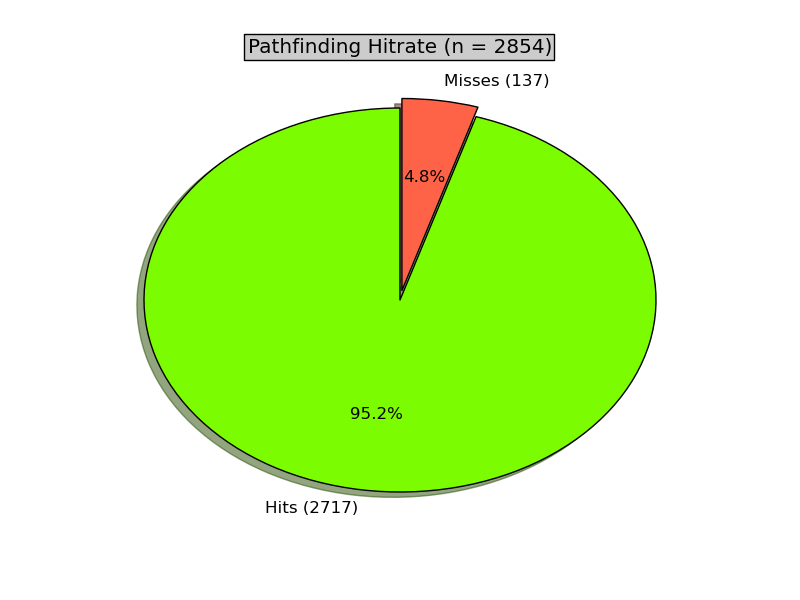
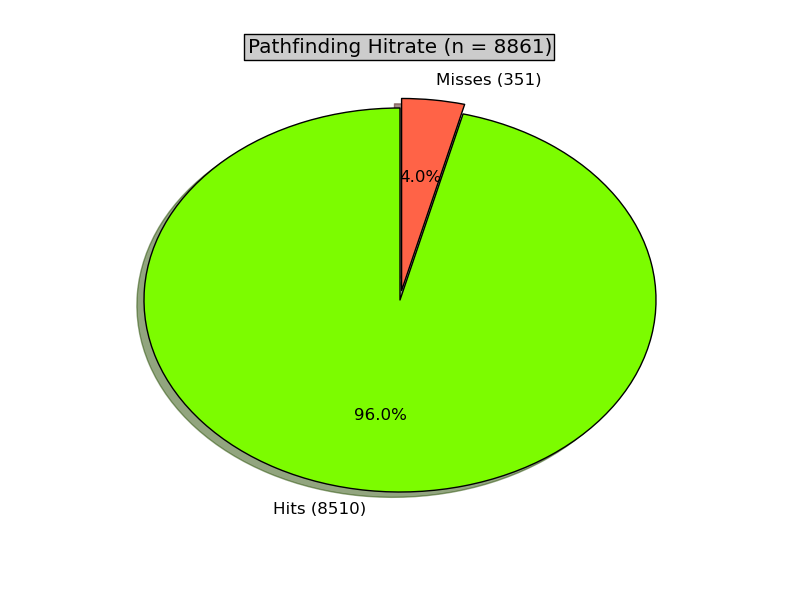
added plots and tweaked graphs

diff --git a/EiCGraphAlgo/sindice/randompath.py b/EiCGraphAlgo/sindice/randompath.py
@@ -22,74 +22,74 @@ sources = [
             #'http://dbpedia.org/resource/Mariah_Carey',
             #'http://dbpedia.org/resource/Celine_Dion',
             #'http://dbpedia.org/resource/Jimi_Hendrix',
-            'http://dbpedia.org/resource/George_Harrison',
-            'http://dbpedia.org/resource/Miles_Davis',
-            'http://dbpedia.org/resource/Kylie_Minogue',
-            'http://dbpedia.org/resource/Felix_Mendelssohn',
-            'http://dbpedia.org/resource/Snoop_Dogg',
-            'http://dbpedia.org/resource/Neil_Young',
-            'http://dbpedia.org/resource/Serge_Gainsbourg',
-            'http://dbpedia.org/resource/Antonio_Vivaldi',
-            'http://dbpedia.org/resource/Avril_Lavigne',
-            'http://dbpedia.org/resource/Dolly_Parton',
-            'http://dbpedia.org/resource/Giuseppe_Verdi',
-            'http://dbpedia.org/resource/Joan_Baez',
-            'http://dbpedia.org/resource/Cyndi_Lauper',
-            'http://dbpedia.org/resource/Jerry_Goldsmith',
-            'http://dbpedia.org/resource/Jean_Michel_Jarre',
-            'http://dbpedia.org/resource/Barbra_Streisand',
-            'http://dbpedia.org/resource/Janet_Jackson',
-            'http://dbpedia.org/resource/Bruce_Springsteen',
-            'http://dbpedia.org/resource/Ringo_Starr',
-            'http://dbpedia.org/resource/Tom_Waits',
-            'http://dbpedia.org/resource/Rihanna',
-            'http://dbpedia.org/resource/James_Brown',
-            'http://dbpedia.org/resource/Jimmy_Page',
-            'http://dbpedia.org/resource/Igor_Stravinsky',
-            'http://dbpedia.org/resource/Kanye_West',
-            'http://dbpedia.org/resource/Stevie_Wonder',
-            'http://dbpedia.org/resource/Mike_Oldfield',
-            'http://dbpedia.org/resource/Kurt_Cobain',
-            'http://dbpedia.org/resource/Henry_Mancini',
-            'http://dbpedia.org/resource/Alice_Cooper',
-            'http://dbpedia.org/resource/Tupac_Shakur',
-            'http://dbpedia.org/resource/Phil_Collins',
-            'http://dbpedia.org/resource/Jennifer_Lopez',
-            'http://dbpedia.org/resource/Bo_Diddley',
-            'http://dbpedia.org/resource/Roger_Waters',
-            'http://dbpedia.org/resource/Ozzy_Osbourne',
-            'http://dbpedia.org/resource/Hans_Zimmer',
-            'http://dbpedia.org/resource/Pete_Townshend',
-            'http://dbpedia.org/resource/Karlheinz_Stockhausen',
-            'http://dbpedia.org/resource/Alicia_Keys',
-            'http://dbpedia.org/resource/Justin_Timberlake',
-            'http://dbpedia.org/resource/Tina_Turner',
-            'http://dbpedia.org/resource/Louis_Armstrong',
-            'http://dbpedia.org/resource/Brian_May',
-            'http://dbpedia.org/resource/Georges_Brassens',
-            'http://dbpedia.org/resource/Nelly_Furtado',
-            'http://dbpedia.org/resource/Van_Morrison',
-            'http://dbpedia.org/resource/Yoko_Ono',
-            'http://dbpedia.org/resource/Amy_Winehouse',
-            'http://dbpedia.org/resource/Solomon_Burke',
-            'http://dbpedia.org/resource/Bing_Crosby',
-            'http://dbpedia.org/resource/Whitney_Houston',
-            'http://dbpedia.org/resource/Claude_Debussy',
-            'http://dbpedia.org/resource/Philip_Glass',
-            'http://dbpedia.org/resource/Alanis_Morissette',
-            'http://dbpedia.org/resource/George_Michael',
-            'http://dbpedia.org/resource/Patti_Smith',
-            'http://dbpedia.org/resource/Iggy_Pop',
-            'http://dbpedia.org/resource/Robbie_Williams',
-            'http://dbpedia.org/resource/Gwen_Stefani',
-            'http://dbpedia.org/resource/Charles_Aznavour',
-            'http://dbpedia.org/resource/David_Gilmour',
-            'http://dbpedia.org/resource/Captain_Beefheart',
-            'http://dbpedia.org/resource/Tarja_Turunen',
-            'http://dbpedia.org/resource/Ayumi_Hamasaki',
-            'http://dbpedia.org/resource/Bryan_Adams',
-            'http://dbpedia.org/resource/Arnold_Schoenberg',
-            'http://dbpedia.org/resource/Carl_Stalling',
+            #'http://dbpedia.org/resource/George_Harrison',
+            #'http://dbpedia.org/resource/Miles_Davis',
+            #'http://dbpedia.org/resource/Kylie_Minogue',
+            #'http://dbpedia.org/resource/Felix_Mendelssohn',
+            #'http://dbpedia.org/resource/Snoop_Dogg',
+            #'http://dbpedia.org/resource/Neil_Young',
+            #'http://dbpedia.org/resource/Serge_Gainsbourg',
+            #'http://dbpedia.org/resource/Antonio_Vivaldi',
+            #'http://dbpedia.org/resource/Avril_Lavigne',
+            #'http://dbpedia.org/resource/Dolly_Parton',
+            #'http://dbpedia.org/resource/Giuseppe_Verdi',
+            #'http://dbpedia.org/resource/Joan_Baez',
+            #'http://dbpedia.org/resource/Cyndi_Lauper',
+            #'http://dbpedia.org/resource/Jerry_Goldsmith',
+            #'http://dbpedia.org/resource/Jean_Michel_Jarre',
+            #'http://dbpedia.org/resource/Barbra_Streisand',
+            #'http://dbpedia.org/resource/Janet_Jackson',
+            #'http://dbpedia.org/resource/Bruce_Springsteen',
+            #'http://dbpedia.org/resource/Ringo_Starr',
+            #'http://dbpedia.org/resource/Tom_Waits',
+            #'http://dbpedia.org/resource/Rihanna',
+            #'http://dbpedia.org/resource/James_Brown',
+            #'http://dbpedia.org/resource/Jimmy_Page',
+            #'http://dbpedia.org/resource/Igor_Stravinsky',
+            #'http://dbpedia.org/resource/Kanye_West',
+            #'http://dbpedia.org/resource/Stevie_Wonder',
+            #'http://dbpedia.org/resource/Mike_Oldfield',
+            #'http://dbpedia.org/resource/Kurt_Cobain',
+            #'http://dbpedia.org/resource/Henry_Mancini',
+            #'http://dbpedia.org/resource/Alice_Cooper',
+            #'http://dbpedia.org/resource/Tupac_Shakur',
+            #'http://dbpedia.org/resource/Phil_Collins',
+            #'http://dbpedia.org/resource/Jennifer_Lopez',
+            #'http://dbpedia.org/resource/Bo_Diddley',
+            #'http://dbpedia.org/resource/Roger_Waters',
+            #'http://dbpedia.org/resource/Ozzy_Osbourne',
+            #'http://dbpedia.org/resource/Hans_Zimmer',
+            #'http://dbpedia.org/resource/Pete_Townshend',
+            #'http://dbpedia.org/resource/Karlheinz_Stockhausen',
+            #'http://dbpedia.org/resource/Alicia_Keys',
+            #'http://dbpedia.org/resource/Justin_Timberlake',
+            #'http://dbpedia.org/resource/Tina_Turner',
+            #'http://dbpedia.org/resource/Louis_Armstrong',
+            #'http://dbpedia.org/resource/Brian_May',
+            #'http://dbpedia.org/resource/Georges_Brassens',
+            #'http://dbpedia.org/resource/Nelly_Furtado',
+            #'http://dbpedia.org/resource/Van_Morrison',
+            #'http://dbpedia.org/resource/Yoko_Ono',
+            #'http://dbpedia.org/resource/Amy_Winehouse',
+            #'http://dbpedia.org/resource/Solomon_Burke',
+            #'http://dbpedia.org/resource/Bing_Crosby',
+            #'http://dbpedia.org/resource/Whitney_Houston',
+            #'http://dbpedia.org/resource/Claude_Debussy',
+            #'http://dbpedia.org/resource/Philip_Glass',
+            #'http://dbpedia.org/resource/Alanis_Morissette',
+            #'http://dbpedia.org/resource/George_Michael',
+            #'http://dbpedia.org/resource/Patti_Smith',
+            #'http://dbpedia.org/resource/Iggy_Pop',
+            #'http://dbpedia.org/resource/Robbie_Williams',
+            #'http://dbpedia.org/resource/Gwen_Stefani',
+            #'http://dbpedia.org/resource/Charles_Aznavour',
+            #'http://dbpedia.org/resource/David_Gilmour',
+            #'http://dbpedia.org/resource/Captain_Beefheart',
+            #'http://dbpedia.org/resource/Tarja_Turunen',
+            #'http://dbpedia.org/resource/Ayumi_Hamasaki',
+            #'http://dbpedia.org/resource/Bryan_Adams',
+            #'http://dbpedia.org/resource/Arnold_Schoenberg',
+            #'http://dbpedia.org/resource/Carl_Stalling',
             'http://dbpedia.org/resource/Renaud',
             'http://dbpedia.org/resource/Dean_Martin',
             'http://dbpedia.org/resource/Shania_Twain',
@@ -97,7 +97,17 @@ sources = [
             'http://dbpedia.org/resource/Marvin_Gaye',
             'http://dbpedia.org/resource/Ashley_Tisdale',
             'http://dbpedia.org/resource/Duke_Ellington',
-            'http://dbpedia.org/resource/Diana_Ross'
+            'http://dbpedia.org/resource/Diana_Ross',
+            'http://dbpedia.org/resource/Volvo',
+            'http://dbpedia.org/resource/BMW',
+            'http://dbpedia.org/resource/Aston_Martin',
+            'http://dbpedia.org/resource/Mickey_Mouse',
+            'http://dbpedia.org/resource/Mercedes-Benz',
+            'http://dbpedia.org/resource/Euro',
+            'http://dbpedia.org/resource/The_Times',
+            'http://dbpedia.org/resource/Digital_Enterprise_Research_Institute',
+            'http://dbpedia.org/resource/Ferrari',
+            'http://dbpedia.org/resource/Valve',
         ]
 
 destinations = [

diff --git a/EiCGraphAlgo/sindice/plot_time_vs_pathlengths.py b/EiCGraphAlgo/sindice/plot_time_vs_pathlengths.py
@@ -36,10 +36,11 @@ def plot(cpf = cached_pathfinder.CachedPathFinder()):
     x = list()
     y = list()
     topop = set()
-    
-    for length in cpf.path_execution_times:
-        if len(cpf.path_execution_times[length]) > 1:
-            for execution_time in cpf.path_execution_times[length]:
+    et = cpf.path_execution_times
+    et.pop(len(cpf.path_execution_times))
+    for length in et:
+        if len(et[length]) > 1:
+            for execution_time in et[length]:
                 x.append(length)
                 y.append(execution_time)
         else:
@@ -50,7 +51,7 @@ def plot(cpf = cached_pathfinder.CachedPathFinder()):
         
     #print (x)
     #print (y)
-    
+
     fig = Figure(figsize=(7,6))
     
     # Create a canvas and add the figure to it.
@@ -83,15 +84,15 @@ def plot(cpf = cached_pathfinder.CachedPathFinder()):
     datas = list()
     w = 0.5
     
-    for length in cpf.path_execution_times:
-        sorted = np.sort(cpf.path_execution_times[length])
+    for length in et:
+        sorted = np.sort(et[length])
         spread = sorted
         center = ones(len(sorted)) * np.median(sorted)
         data = concatenate((spread, center), 0)
         data.shape = (-1, 1)
         datas.append(data)
     
-    violin_plot(ax,list(cpf.path_execution_times.values()),range(1,len(cpf.path_execution_times)+1),bp=True)
+    violin_plot(ax,list(et.values()),range(1,len(et)+1),bp=True)
         
     # Making a 2-D array only works if all the columns are the
     # same length.  If they are not, then use a list instead.

diff --git a/EiCGraphAlgo/sindice/plot_distribution_pathlength.py b/EiCGraphAlgo/sindice/plot_distribution_pathlength.py
@@ -13,6 +13,7 @@ def plot(cpf = cached_pathfinder.CachedPathFinder()):
     #print (total_paths)
     #print (cpf.path_lengths)
     flattened_lengths = list()
+    cpf.path_lengths.pop(len(cpf.path_lengths))
     for x in cpf.path_lengths:
         i = 0
         for i in range(cpf.path_lengths[x]):
@@ -31,17 +32,20 @@ def plot(cpf = cached_pathfinder.CachedPathFinder()):
         
     #variation = spst.tstd(flattened_lengths)
     #median = spst.tmean(flattened_lengths)
+    mean = np.average(np.array(flattened_lengths))
     #print (x_n)
     #print (y_n)
     #print (median)
     #print (variation)
+    print ("mean = %s " % mean )
     l = np.linspace(0,np.max(np.array(x)),np.max(np.array(y)))
     # Set the title.
     plt.title('Distribution of path length (n = %s)' % total_paths,fontsize=12)
     
     # Set the X Axis label.
     plt.xlabel('(steps)',fontsize=9)
-    
+    plt.xlim(0,np.max(x)+1)
+    x_r = np.arange(np.max(x)+1,step = 0.1)
     # Set the Y Axis label.
     plt.ylabel('(fraction)',fontsize=9)
     fit_alpha,fit_loc,fit_beta=ss.gamma.fit(flattened_lengths)
@@ -51,7 +55,7 @@ def plot(cpf = cached_pathfinder.CachedPathFinder()):
     plt.bar(x_n,y_n,alpha=0.5)
     #plt.plot(l,mlab.normpdf(l,median,np.sqrt(variation)),color='tomato')
     dist = ss.gamma(fit_alpha,loc=fit_loc,scale=fit_beta)
-    plt.plot(x, dist.pdf(x), ls='-', c='tomato')
+    plt.plot(x_r, dist.pdf(x_r), ls='-', c='tomato')
     
     try:
         path = "/tmp/analysis_{0}_{1}.png".format(hash(time.time()),np.random.randint(10000))

diff --git a/EiCGraphAlgo/randompathgenerator.py b/EiCGraphAlgo/randompathgenerator.py
@@ -1,6 +1,6 @@
 from sindice import search,randompath
 import pickle
-import ujson, os, inspect, time, gc
+import ujson, os, inspect, time, gc, sys
 import logging.config
 import numpy as np
 from memory_profiler import memory_usage
@@ -11,6 +11,7 @@ def generateCachedPaths():
     root = (os.path.dirname(os.path.abspath(inspect.getfile(inspect.currentframe()))))
     start_time = time.time()
     n = 0
+    total = len(randompath.sources)*100
     for s in randompath.sources:
         for d in randompath.destinations:
             print ("Calculation for {0} to {1}".format(s,d)) 
@@ -23,11 +24,12 @@ def generateCachedPaths():
                 pickle.dump(r,open( "sindice/cached_paths/%s.dump" % hash('{0}_{1}'.format(s,d)), "wb" ))
             except:
                 print("Could not find path between {0} and {1}".format(s,d))
+                print(sys.exc_info())
             gc.collect()
             elapsed_time = time.time() - start_time
             n += 1
-            remaining_time = elapsed_time / n * 10000
-            print("{0} of 10 000 Elapsed: {1} ETR: {2}".format(n,elapsed_time,remaining_time))
+            remaining_time = elapsed_time / n * total
+            print("{0} of {3} Elapsed: {1} ETR: {2}".format(n,elapsed_time,remaining_time,total))
 
 generateCachedPaths()
             

diff --git a/EiCGraphAlgo/sindice/pathfinder.py b/EiCGraphAlgo/sindice/pathfinder.py
@@ -6,7 +6,7 @@ Created on 10-aug.-2012
 import numpy as np
 import scipy
 import networkx as nx
-from scipy import linalg
+from scipy import linalg, spatial
 from sindice import worker, resourceretriever, graph
 import time, gc, sys, logging
 
@@ -103,6 +103,7 @@ class PathFinder:
                 logger.debug (len(self.stateGraph))
                 k = np.int((1-np.divide(1,self.iteration))*250)
                 h = (nx.pagerank_scipy(nx.Graph(self.stateGraph), max_iter=100, tol=1e-07))
+                #h = (nx.hits_scipy(nx.Graph(self.stateGraph), max_iter=100, tol=1e-07))
                 res = list(sorted(h, key=h.__getitem__, reverse=True))
                 logger.debug(k)
                 
@@ -145,7 +146,7 @@ class PathFinder:
             
         for link in respbB:
             predB.add(link['uri'])
-            
+        #scipy.spatial.distance.jaccard(np.array(predA), np.array(predB))    
         return 1-np.divide(len(predA & predB),len(predA | predB))       
     
     def buildGraph(self, i, n):

diff --git a/EiCGraphAlgo/sindice/plot_checked_resources_vs_pathlengths.py b/EiCGraphAlgo/sindice/plot_checked_resources_vs_pathlengths.py
@@ -82,16 +82,17 @@ def plot(cpf = cached_pathfinder.CachedPathFinder()):
     # fake up some more data
     datas = list()
     w = 0.5
-    
-    for length in cpf.path_cached_resources:
-        sorted = np.sort(cpf.path_cached_resources[length])
+    cr = cpf.path_cached_resources
+    cr.pop(len(cpf.path_cached_resources))
+    for length in cr:
+        sorted = np.sort(cr[length])
         spread = sorted
         center = ones(len(sorted)) * np.median(sorted)
         data = concatenate((spread, center), 0)
         data.shape = (-1, 1)
         datas.append(data)
     
-    violin_plot(ax,list(cpf.path_cached_resources.values()),range(1,len(cpf.path_cached_resources)+1),bp=True)
+    violin_plot(ax,list(cr.values()),range(1,len(cr)+1),bp=True)
         
     # Making a 2-D array only works if all the columns are the
     # same length.  If they are not, then use a list instead.

diff --git a/EiCGraphAlgo/sindice/plot_distribution_execution_times.py b/EiCGraphAlgo/sindice/plot_distribution_execution_times.py
@@ -22,12 +22,13 @@ def plot(cpf = cached_pathfinder.CachedPathFinder()):
     
     # Set the X Axis label.
     plt.xlabel('(ms)',fontsize=9)
+    plt.xticks(np.arange(0,np.max(flattened_execution_times),4000))
     
     # Set the Y Axis label.
-    plt.ylabel('(#)',fontsize=9)
+    plt.ylabel('(fraction)',fontsize=9)
     #plt.yscale('log')
-    
-    plt.hist(flattened_execution_times,bins=15, range=None, normed=True,alpha=0.5, cumulative=True)
+    bins = np.int(np.max(flattened_execution_times) / 2000) + 1
+    plt.hist(flattened_execution_times, bins = bins, range=[0,np.max(flattened_execution_times)], normed=True,alpha=0.5, cumulative=True)
     
     try:
         path = "/tmp/analysis_et_{0}_{1}.png".format(hash(time.time()),np.random.randint(10000))
